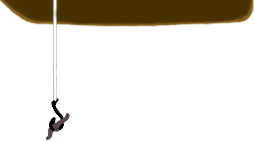
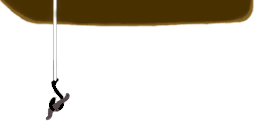
changed fish gravity, pending more changes

diff --git a/Game/GameModels.py b/Game/GameModels.py
@@ -3,9 +3,10 @@ import os
 import random as rnd
 
 #Load all class images. 
-FISH_IMGS = [pygame.image.load(os.path.join("imgs", "fishup.png")), 
-            pygame.image.load(os.path.join("imgs", "fishmid.png")), 
-            pygame.image.load(os.path.join("imgs", "fishdown.png"))]
+FISH_IMGS = [pygame.transform.scale(pygame.image.load(os.path.join("imgs", "fishup.png")), (55, 42)),
+            pygame.transform.scale(pygame.image.load(os.path.join("imgs", "fishmid.png")), (55, 42)), 
+            pygame.transform.scale(pygame.image.load(os.path.join("imgs", "fishdown.png")), (55, 42))]
+
 SHARK_IMGS = [pygame.image.load(os.path.join("imgs", "shark.png")),
             pygame.image.load(os.path.join("imgs", "shark2.png"))]
 WORM_IMG = pygame.image.load(os.path.join("imgs", "worm.png"))
@@ -30,26 +31,24 @@ class Fish:
     
     # causes fish to "go up" when called
     def swimUp(self):
-        self.tick_count = 0
         self.SPEED = -5.5
         
     # causes fish to "fall down" due to gravity when called, this is perpetual.
     def move(self):
         self.tick_count += 1
         
-        # calculate distance to move based on current velocity and tick count
-        # Distance = (velocity * time^2 ) / 2
-        distance = ( self.SPEED * self.tick_count**2 ) / 2
+        # # calculate distance to move based on current velocity and tick count
+        # # Distance = (velocity * time^2 ) / 2
+        # distance = ( self.SPEED * self.tick_count**2 ) / 5
         
-        #if distance greater than 10 (down), set to 10 (down)
-        if distance>=5.5:
-            distance = 5.5
-        #if distance less than 0 (up), set to 5.5 (down)
-        elif distance<0:
-            distance = - 5.5
+        # #if distance greater than 10 (down), set to 10 (down)
+        # if distance>=5.5:
+        #     distance = 5.5
+        # #if distance less than 0 (up), set to 5.5 (down)
+        # elif distance<0:
+        #     distance = - 5.5
             
-        self.y=self.y+distance
-        
+        self.y=self.y+self.SPEED       
         self.SPEED = 7.5
         
         #check what image to show based on current image count.
